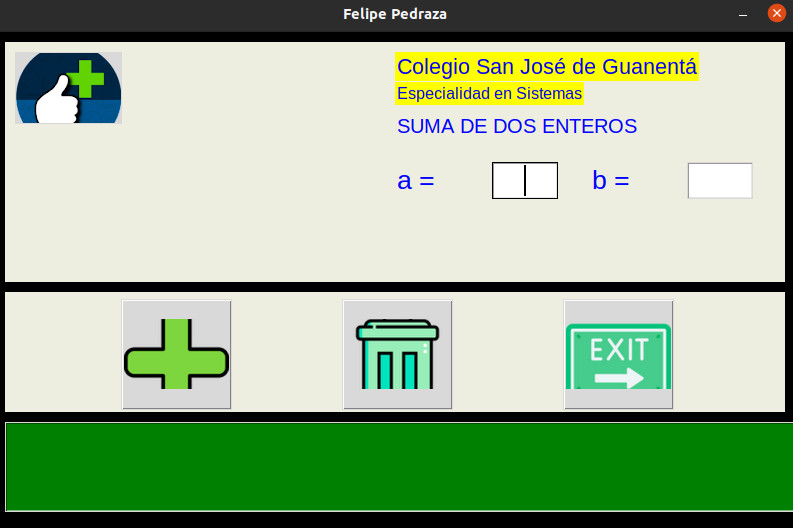
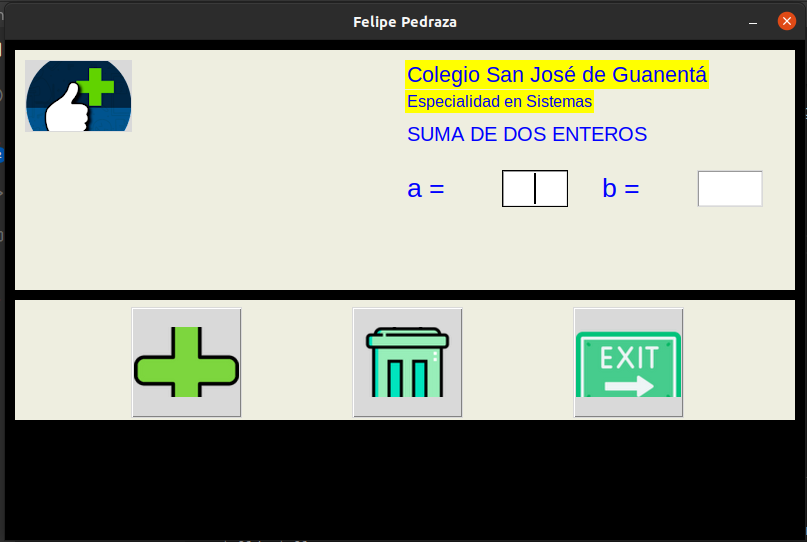
README modificado. Se agrego un pantallazo

diff --git a/gui_01/gui_01.py b/gui_01/gui_01.py
@@ -7,7 +7,6 @@ from requests import delete
 # --------------------
 # funciones de la app
 # --------------------
-
 def sumar():
     # messagebox.showinfo("Suma 1.0", "Hizo click en el boton sumar...")
     c = int(a.get()) + int(b.get())
@@ -22,7 +21,6 @@ def borrar():
 def salir():
     messagebox.showinfo("Suma 1.0", "La app se cerrará...")
     ventana_principal.destroy()
-
 # ------------------
 # ventana principal
 # ------------------
@@ -75,7 +73,7 @@ subtitulo2.config(bg="ivory2", fg="blue", font=("Arial", 15), anchor=CENTER)
 subtitulo2.place(x=390, y=70)
 
 # imagen - logo de la app
-logo = PhotoImage(file="img/btn-suma.png")
+logo = PhotoImage(file="gui_01/img/btn-suma.png")
 etiq_logo = Label(frame_entrada, image=logo)
 etiq_logo.place(x=10,y=10)
 
@@ -108,19 +106,19 @@ frame_operaciones.config(bg="ivory2", width=780, height=120)
 frame_operaciones.place(x=10,y=260)
 
 # boton para sumar los números - texto
-bt_sum = PhotoImage(file="img/boton_sumar.png")
+bt_sum = PhotoImage(file="gui_01/img/boton_sumar.png")
 # bt_sumar = Button(frame_operaciones, text= "Sumar", width=10)
 bt_sumar = Button(frame_operaciones, image=bt_sum, width=105, height=105, command=sumar)
 bt_sumar.place(x=116, y=7)
 
 # boton para borrar entradas y resultado
-bt_bor = PhotoImage(file="img/boton_borrar.png")
+bt_bor = PhotoImage(file="gui_01/img/boton_borrar.png")
 # bt_borrar = Button(frame_operaciones, text="Borrar", width=10)
 bt_borrar = Button(frame_operaciones, image=bt_bor, width=105, height=105, command=borrar)
 bt_borrar.place(x=337, y=7)
 
 # boton para salir - cerrar la app
-bt_sal = PhotoImage(file="img/boton_salir.png")
+bt_sal = PhotoImage(file="gui_01/img/boton_salir.png")
 # bt_salir = Button(frame_operaciones, text="Salir", width=10)
 bt_salir = Button(frame_operaciones, image=bt_sal, width=105, height=105, command=salir)
 bt_salir.place(x=558, y=7)
@@ -128,6 +126,7 @@ bt_salir.place(x=558, y=7)
 # ------------------
 # frame resultados
 # ------------------
+"""""
 frame_resultados = Frame(ventana_principal)
 frame_resultados.config(bg="ivory2", width=780, height=100)
 frame_resultados.place(x=10,y=390)
@@ -136,6 +135,6 @@ frame_resultados.place(x=10,y=390)
 t_resultados = Text(frame_resultados, width=50, height=3)
 t_resultados.config(bg="green", fg="white", font=("Courier", 20))
 t_resultados.pack()
-
+"""""
 # se ejecuta el metodo mainloop() de la clase Tk() a través de la instancia ventana_principal.  Este metodo despliega una ventana simple en pantalla y queda a la espera de lo que el usuario haga (click en boton, escribir, etc).  Cada accion del usuario se conoce como un evento.  El metodo mainloop() es un bucle infinito.
 ventana_principal.mainloop()

diff --git a/README.md b/README.md
@@ -4,4 +4,12 @@
 
 ## Ventana principal  y frase entrada datos
 
-![ventana principal y frame entrada](ventana_principal.png "ventana principal y frame entrada")
+![ventana principal y frame entrada](gui_01/img/ventana_principal.png "ventana principal y frame entrada")
+
+## Frame operaciones (botones)
+
+![frame operaciones](gui_01/img/frame_operaciones.png "frame operaciones")
+
+## Frame resultado
+
+![frame resultado](gui_01/img/frame_resultados.png "frame resultado")
